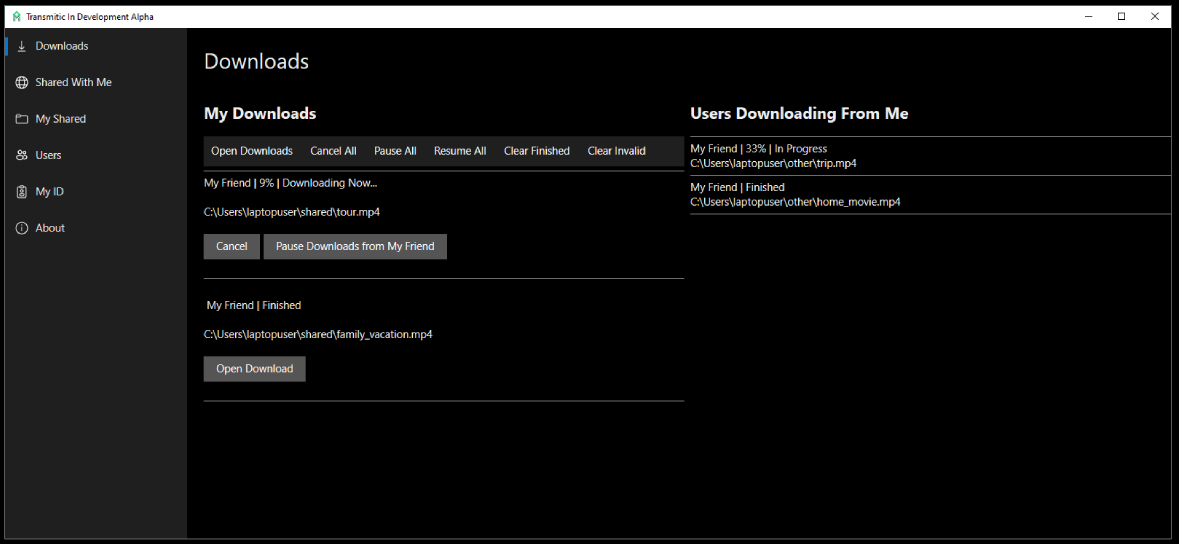
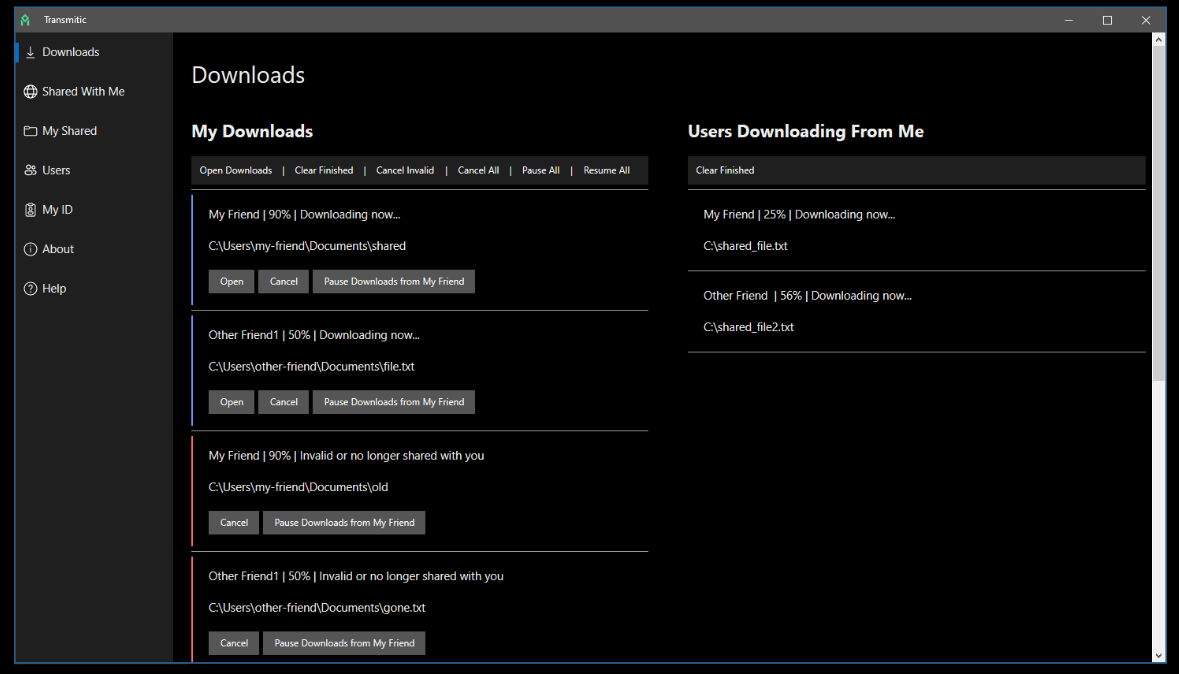
Updated readme and screenshot

Changed region(s): [[0.0, 0.0, 1.0, 1.0]]

diff --git a/src/downloads.htm b/src/downloads.htm
@@ -12,25 +12,25 @@
             {
                 owner: 'My Friend',
                 percent: 90,
-                path: 'C:\\hello\\world1',
+                path: 'C:\\Users\\my-friend\\Documents\\shared',
             },
             {
-                owner: 'My Friend1',
+                owner: 'Other Friend1',
                 percent: 50,
-                path: 'C:\\hello\\world2',
+                path: 'C:\\Users\\other-friend\\Documents\\file.txt',
             }
         ];
 
         let downloads_invalid = [
-            {
-                owner: 'My FriendN',
-                percent: 10,
-                path: 'C:\\hello\\world3',
+        {
+                owner: 'My Friend',
+                percent: 90,
+                path: 'C:\\Users\\my-friend\\Documents\\old',
             },
             {
-                owner: 'My Friend1Q',
-                percent: 5,
-                path: 'C:\\hello\\world4',
+                owner: 'Other Friend1',
+                percent: 50,
+                path: 'C:\\Users\\other-friend\\Documents\\gone.txt',
             }
         ];
 
@@ -176,7 +176,7 @@
                         path: "C:\\shared_file.txt",
                     },
                     {
-                        name: "My Friend 2 ",
+                        name: "Other Friend ",
                         percent: "56",
                         path: "C:\\shared_file2.txt",
                     },

diff --git a/src/main.htm b/src/main.htm
@@ -1,7 +1,7 @@
 <html window-frame="extended" window-blurbehind="dark" theme="dark">
 
 <head>
-    <title>Transmitic Beta</title>
+    <title>Transmitic</title>
     <style src="extended-window-crome.css" ></style>
     <style>
         @import url(style.css);

diff --git a/README.md b/README.md
@@ -1,7 +1,7 @@
-# Transmitic: In Development Alpha
+# Transmitic Beta
 
 Transmitic is an encrypted, peer to peer, file transfer program with download pause and resume.  
-Transmitic is in early development.
+Transmitic is still in development.
 
 Discord: [https://discord.gg/tRT3J6T](https://discord.gg/tRT3J6T)  
 Reddit: [https://www.reddit.com/r/transmitic/](https://www.reddit.com/r/transmitic/)  
@@ -21,22 +21,14 @@ Website: [https://transmitic.io/](https://transmitic.io/)
 
 **Bittorrent**  
 Transmitic does not support bittorrent, or bittorent like functionality. Transmitic cannot download the same file from multiple peers to download it faster.  
-Users connect to one another directly via IP.  
+A file can only be downloaded from one user.
 
 **File Syncing**  
 Transmitic does _not_ have any file syncing capability and should never be used for this purpose.
 
 ## Development Status
 
-Transmitic is an alpha that is in early development.  
-At this time, expect:  
-
-- Incomplete error handling on edge cases
-- Config file usage for advanced configuration
-- No attention to performance
-- No code quality
-- No code reviews
-- No tests
+Transmitic in beta and still in development  
 
 This project is slowly being hacked on during nights and weekends.  
 It will eventually reach a stable and tested point.
@@ -61,16 +53,12 @@ If you are interested, please visit the [Discord](https://discord.gg/tRT3J6T).
 
 ## Goals (Short Term and Long Term)
 
-- Major refactor
-- Additional error handling around edge cases
-- Port to SciterJS
-- GUI for advanced settings
-- GUI refinement
-- Tests
-- Transmitic Discovery
-  - Server to discover users without requiring IPs to be known by users (optional to users)
+- Linux support
+- macOS support
+- Add users with a "friend request"
 - UPnP
-- Add Users with a "friend request"
+- Transmitic Discovery
+  - Server to discover users without requiring IPs to be known by users (optional feature)
 - Auto updates
 - Transmitic Mini
   - CLI only version with minimal dependencies
@@ -95,10 +83,6 @@ If you are interested, please visit the [Discord](https://discord.gg/tRT3J6T).
 ### Current
 
 ![Transmitic](./screenshot.png)
-
-### Mockups
-
-[https://github.com/transmitic/transmitic/wiki/UI-Mockup](https://github.com/transmitic/transmitic/wiki/UI-Mockup)
 
 ## License
 
